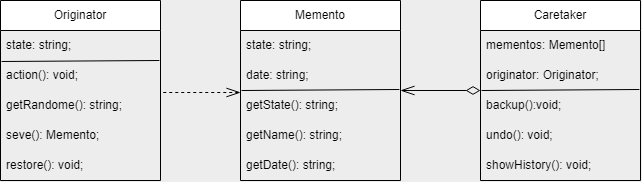
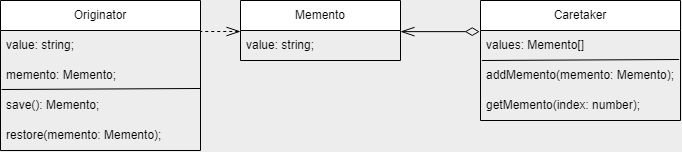
commit

diff --git a/Behavioral (Поведенческие)/Memento (Снимок)/memento.js b/Behavioral (Поведенческие)/Memento (Снимок)/memento.js
@@ -1,83 +1,41 @@
 var Memento = /** @class */ (function () {
-    function Memento(state) {
-        this.state = state;
-        this.date = new Date().toString().slice(0, 19).replace('T', ' ');
+    function Memento(value) {
+        this.value = value;
     }
-    Memento.prototype.getState = function () {
-        return this.state;
-    };
-    Memento.prototype.getName = function () {
-        return "".concat(this.date, " / (").concat(this.state.substring(0, 18), "...)");
-    };
-    Memento.prototype.getDate = function () {
-        return this.date;
-    };
     return Memento;
 }());
+;
 var Originator = /** @class */ (function () {
-    function Originator(state) {
-        this.state = state;
-        console.log("Originator: My initial state is ".concat(state));
+    function Originator() {
     }
-    Originator.prototype.action = function () {
-        console.log('Originator: executing an action');
-        this.state = this.getRandomString(30);
-        console.log("Originator: My state has changet to ".concat(this.state));
+    Originator.save = function (value) {
+        return new Memento(value);
     };
-    Originator.prototype.getRandomString = function (length) {
-        if (length === void 0) { length = 10; }
-        var CharSet = 'abcdefghijklmnopqrstuvwxyzABCDEFGHIJKLMNOPQRSTUVWXYZ';
-        return Array
-            .apply(null, { length: length })
-            .map(function () { return CharSet.charAt(Math.floor(Math.random() * CharSet.length)); })
-            .join('');
-    };
-    Originator.prototype.save = function () {
-        return new Memento(this.state);
-    };
-    Originator.prototype.restore = function (memento) {
-        this.state = memento.getState();
-        console.log("Originator: My state has changet to: ".concat(this.state));
+    Originator.restore = function (memento) {
+        return memento.value;
     };
     return Originator;
 }());
+;
 var Caretaker = /** @class */ (function () {
-    function Caretaker(originator) {
-        this.mementos = [];
-        this.originator = originator;
+    function Caretaker() {
+        this.values = [];
     }
-    Caretaker.prototype.backup = function () {
-        console.log('\nCaretaker: Saving Originator\'s state...');
-        this.mementos.push(this.originator.save());
+    Caretaker.prototype.addMemento = function (memento) {
+        this.values.push(memento);
     };
-    Caretaker.prototype.undo = function () {
-        if (!this.mementos.length) {
-            return;
-        }
-        var memento = this.mementos.pop();
-        console.log("Caretaker: Restoring state to: ".concat(memento === null || memento === void 0 ? void 0 : memento.getName()));
-        if (memento)
-            this.originator.restore(memento);
-    };
-    Caretaker.prototype.showHistory = function () {
-        console.log('Caretaker: Here\s the list of mementos:');
-        for (var _i = 0, _a = this.mementos; _i < _a.length; _i++) {
-            var memento = _a[_i];
-            console.log(memento.getName());
-        }
+    Caretaker.prototype.getMemento = function (index) {
+        return this.values[index];
     };
     return Caretaker;
 }());
-var originator = new Originator('Some standart text');
-var caretaker = new Caretaker(originator);
-caretaker.backup();
-originator.action();
-caretaker.backup();
-originator.action();
-caretaker.backup();
-originator.action();
+var caretaker = new Caretaker();
+caretaker.addMemento(Originator.save('Some text'));
+caretaker.addMemento(Originator.save('Other text!'));
+caretaker.addMemento(Originator.save('Some other text!!!'));
+caretaker.addMemento(Originator.save('Some more text!!!'));
+console.log(caretaker.values);
 console.log('');
-caretaker.showHistory();
-caretaker.undo();
-caretaker.undo();
-caretaker.undo();
+console.log(Originator.restore(caretaker.getMemento(0)));
+console.log('');
+console.log(Originator.restore(caretaker.getMemento(2)));

diff --git a/Behavioral (Поведенческие)/Memento (Снимок)/memento.ts b/Behavioral (Поведенческие)/Memento (Снимок)/memento.ts
@@ -1,87 +1,45 @@
 class Memento {
-    state: string;
-    date: string;
-    constructor(state: string) {
-        this.state = state;
-        this.date = new Date().toString().slice(0, 19).replace('T', ' ');
-    }
-    getState(): string {
-        return this.state;
-    }
-    getName(): string {
-        return `${this.date} / (${this.state.substring(0, 18)}...)`;
-    }
-    getDate(): string {
-        return this.date;
-    }
-}
+    value: string;
+	constructor(value: string) {
+		this.value = value;
+	}
+};
+
 class Originator {
-    state: string;
-    constructor(state: string) {
-        this.state = state;
-        console.log(`Originator: My initial state is ${state}`);
+    value: string;
+    memento: Memento;
+    static save(value: string): Memento {
+        return new Memento(value)
     }
-    action(): void {
-        console.log('Originator: executing an action');
-        this.state = this.getRandom(30);
-        console.log(`Originator: My state has changet to ${this.state}`)
-    }
-    getRandom(length: number = 10): string {
-        const CharSet = 'abcdefghijklmnopqrstuvwxyzABCDEFGHIJKLMNOPQRSTUVWXYZ';
-        return Array 
-        .apply(null, { length } as any)
-        .map(() => CharSet.charAt(Math.floor(Math.random() * CharSet.length)))
-        .join('');
-    }
-    save(): Memento {
-        return new Memento(this.state)
-    }
-    restore(memento: Memento): void {
-        this.state = memento.getState();
-        console.log(`Originator: My state has changet to: ${this.state}`);
-    }
-}
+    static restore(memento: Memento) {
+        return memento.value;
+    } 
+};
+
 class Caretaker {
-    mementos: Memento[] = [];
-    originator: Originator;
-    constructor(originator: Originator) {
-        this.originator = originator;
-    }
-    backup(): void {
-        console.log('\nCaretaker: Saving Originator\'s state...');
-        this.mementos.push(this.originator.save());
-    }
-    undo(): void {
-        if (!this.mementos.length) {
-            return;
-        }
-        const memento = this.mementos.pop();
-        console.log(`Caretaker: Restoring state to: ${memento?.getName()}`);
-        if (memento) this.originator.restore(memento);
-    }
-    showHistory(): void {
-        console.log('Caretaker: Here\s the list of mementos:');
-        for (const memento of this.mementos) {
-            console.log(memento.getName());
-        }
-    }
+    values: Memento[];
+	constructor() {
+		this.values = [];
+	}
+
+	addMemento(memento: Memento) {
+		this.values.push(memento);
+	}
+
+	getMemento(index: number) {
+		return this.values[index];
+	}
 }
 
-const originator = new Originator('Some standart text');
-const caretaker = new Caretaker(originator);
+const caretaker = new Caretaker();
 
-caretaker.backup();
-originator.action();
+caretaker.addMemento(Originator.save('Some text'));
+caretaker.addMemento(Originator.save('Other text!'));
+caretaker.addMemento(Originator.save('Some other text!!!'));
+caretaker.addMemento(Originator.save('Some more text!!!'));
 
-caretaker.backup();
-originator.action();
-
-caretaker.backup();
-originator.action();
-
+console.log(caretaker.values);
 console.log('');
-caretaker.showHistory();
-
-caretaker.undo();
-caretaker.undo();
-caretaker.undo();
+console.log(Originator.restore(caretaker.getMemento(0)));
+console.log('');
+console.log(Originator.restore(caretaker.getMemento(2)));
